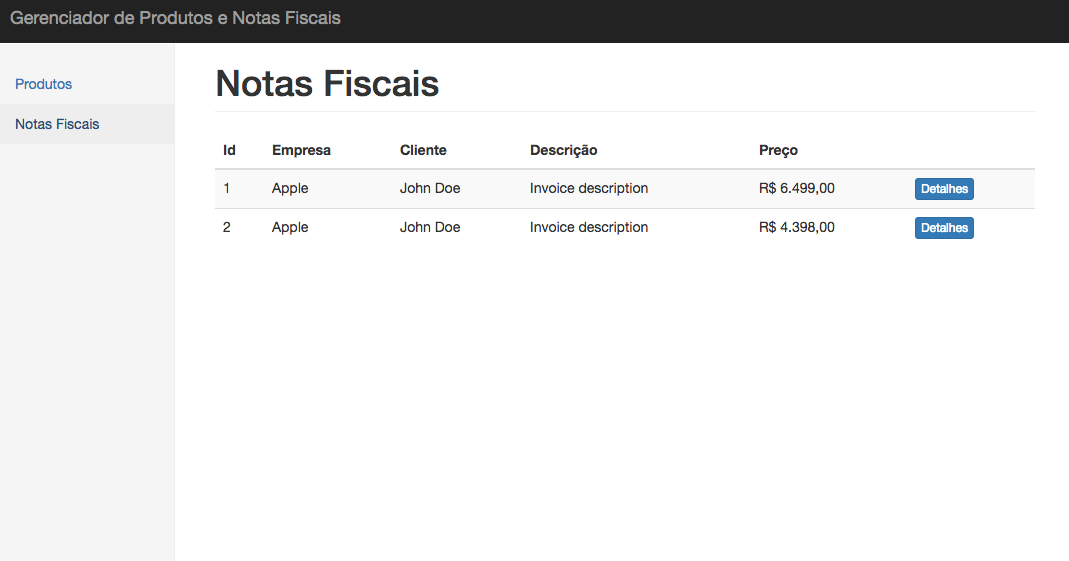
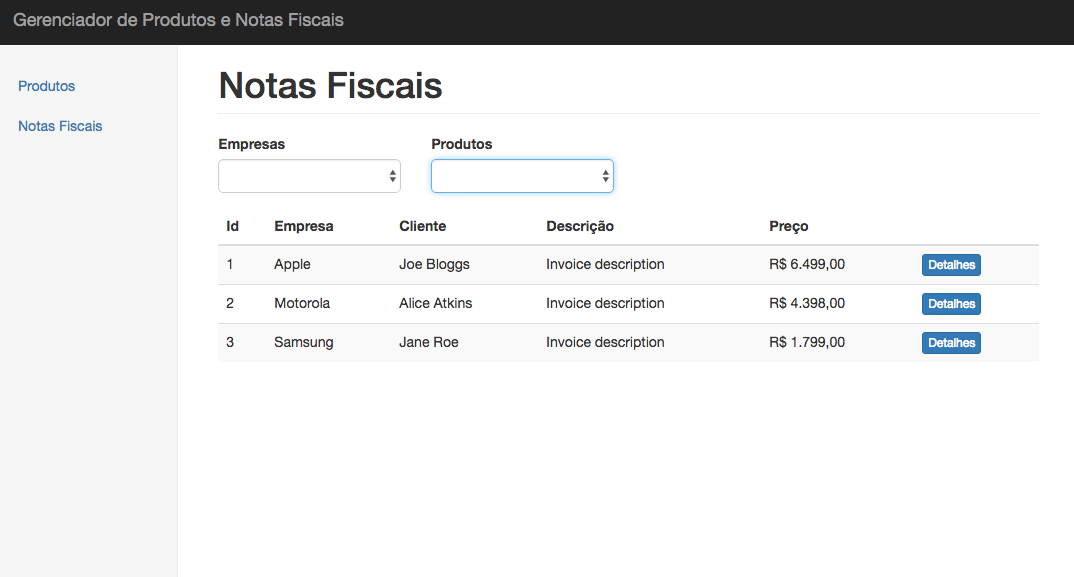
Change data fixtures

diff --git a/src/main/java/br/com/atech/data/fixture/InvoiceData.java b/src/main/java/br/com/atech/data/fixture/InvoiceData.java
@@ -20,7 +20,7 @@ public class InvoiceData {
     public static Invoice createInvoiceForAppleWithTwoProducts() {
         Company company = CompanyData.createCompanyApple();
 
-        Invoice invoice = new Invoice(company, "John Doe", "Invoice description");
+        Invoice invoice = new Invoice(company, "Joe Bloggs", "Invoice description");
         invoice.addItem(ProductData.createProductIphone6s(), 1);
         invoice.addItem(ProductData.createProductIpadMini(), 1);
 
@@ -28,12 +28,23 @@ public class InvoiceData {
     }
 
     public static Invoice createInvoiceForMotorolaWithOneProductAndTwoUnits() {
-        Company company = CompanyData.createCompanyApple();
+        Company company = CompanyData.createCompanyMotorola();
 
-        Invoice invoice = new Invoice(company, "John Doe", "Invoice description");
+        Invoice invoice = new Invoice(company, "Alice Atkins", "Invoice description");
 
         Product product = ProductData.createProductMotoX();
         invoice.addItem(product, 2);
+
+        return invoice;
+    }
+
+    public static Invoice createInvoiceForSamsungWithOneProduct() {
+        Company company = CompanyData.createCompanySamsung();
+
+        Invoice invoice = new Invoice(company, "Jane Roe", "Invoice description");
+
+        Product product = ProductData.createProductGalaxyS6();
+        invoice.addItem(product, 1);
 
         return invoice;
     }

diff --git a/src/main/java/br/com/atech/data/helper/DataHelper.java b/src/main/java/br/com/atech/data/helper/DataHelper.java
@@ -52,8 +52,10 @@ public class DataHelper {
         // Invoices
         Invoice invoiceApple = InvoiceData.createInvoiceForAppleWithTwoProducts();
         Invoice invoiceMotorola = InvoiceData.createInvoiceForMotorolaWithOneProductAndTwoUnits();
+        Invoice invoiceSamsung = InvoiceData.createInvoiceForSamsungWithOneProduct();
 
         invoiceRepository.save(invoiceApple);
         invoiceRepository.save(invoiceMotorola);
+        invoiceRepository.save(invoiceSamsung);
     }
 }

diff --git a/README.md b/README.md
@@ -14,6 +14,7 @@ As telas (frontend) podem ser visualizadas em:
 - [ScreenShot-3.png](docs/ScreenShot-3.png)
 - [ScreenShot-4.png](docs/ScreenShot-4.png)
 - [ScreenShot-5.png](docs/ScreenShot-5.png)
+- [ScreenShot-5.png](docs/ScreenShot-6.png)
 
 ## Tecnologias e Requisitos
 
